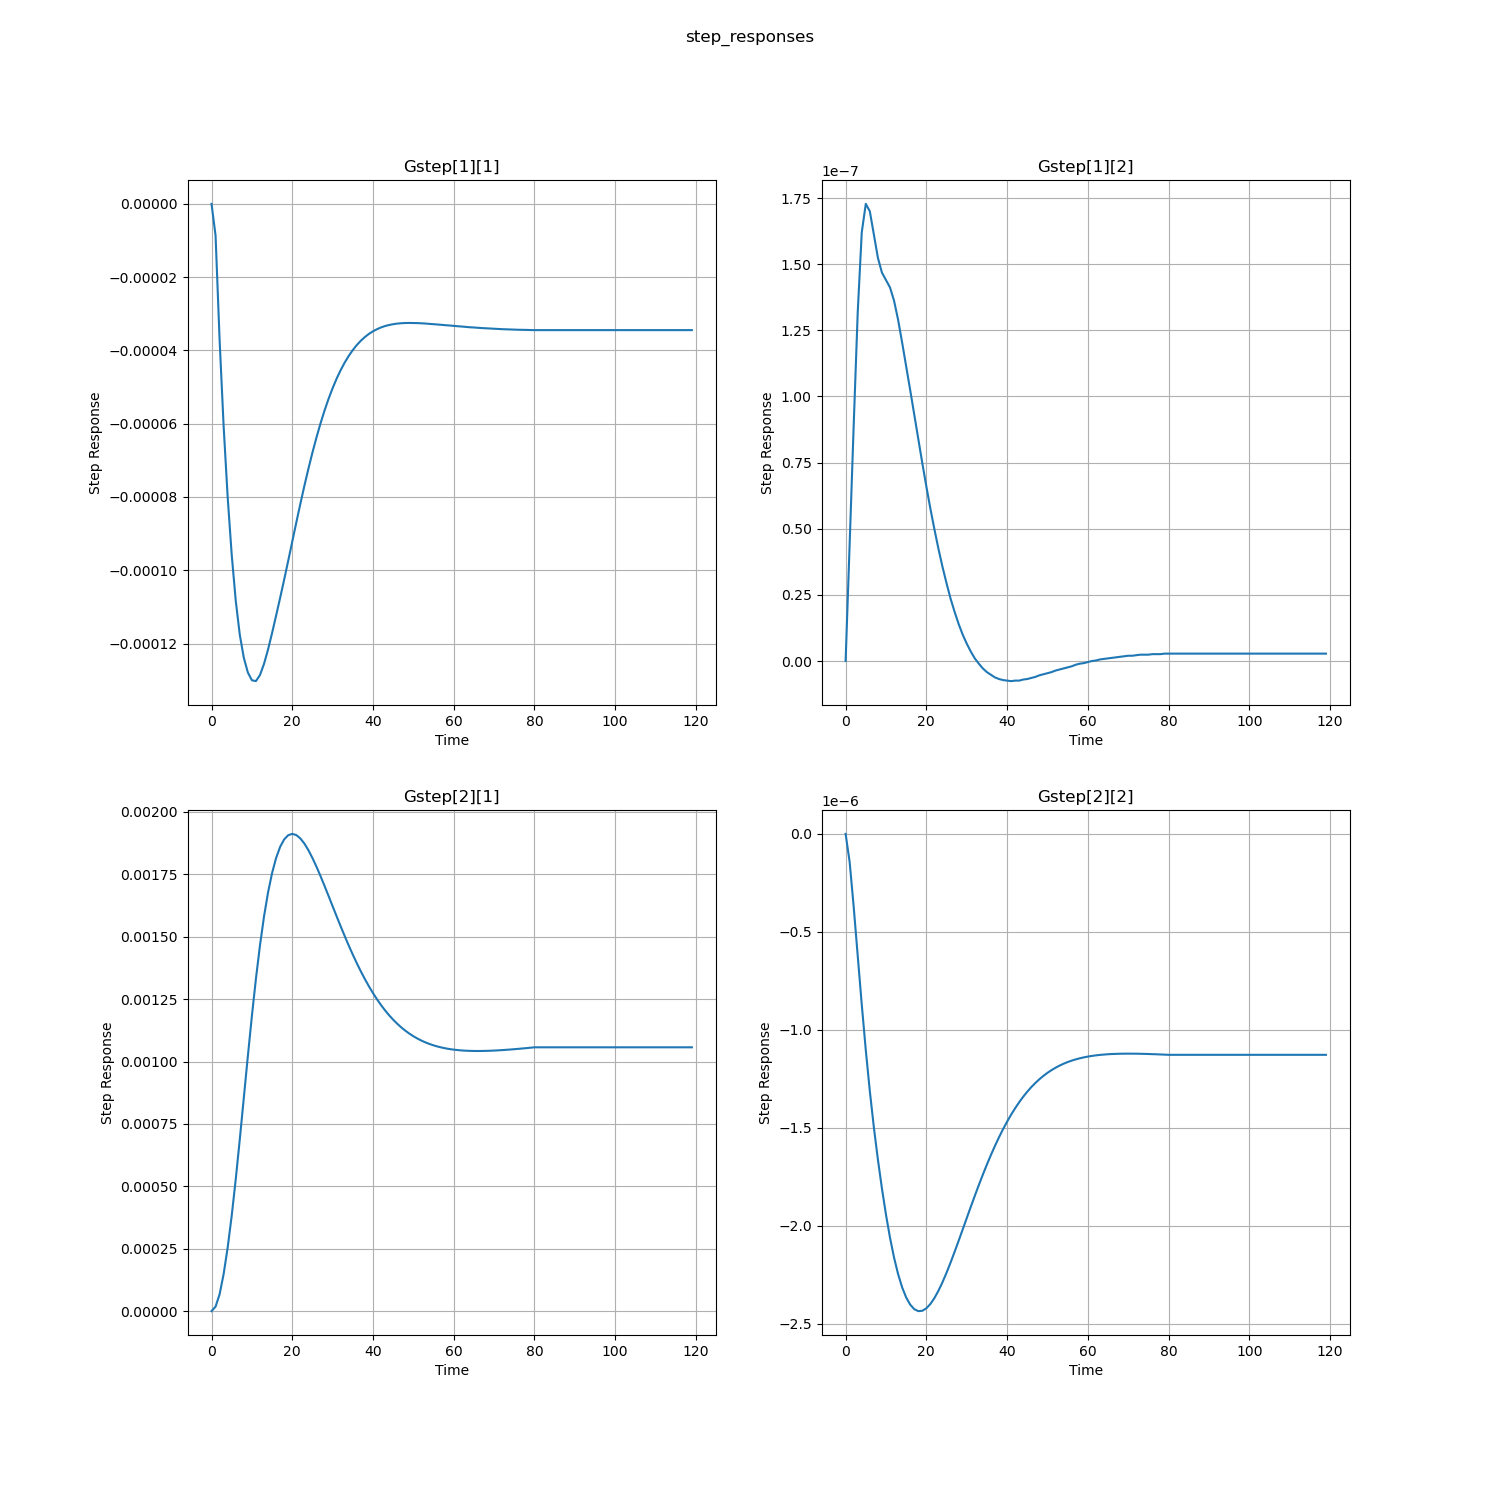
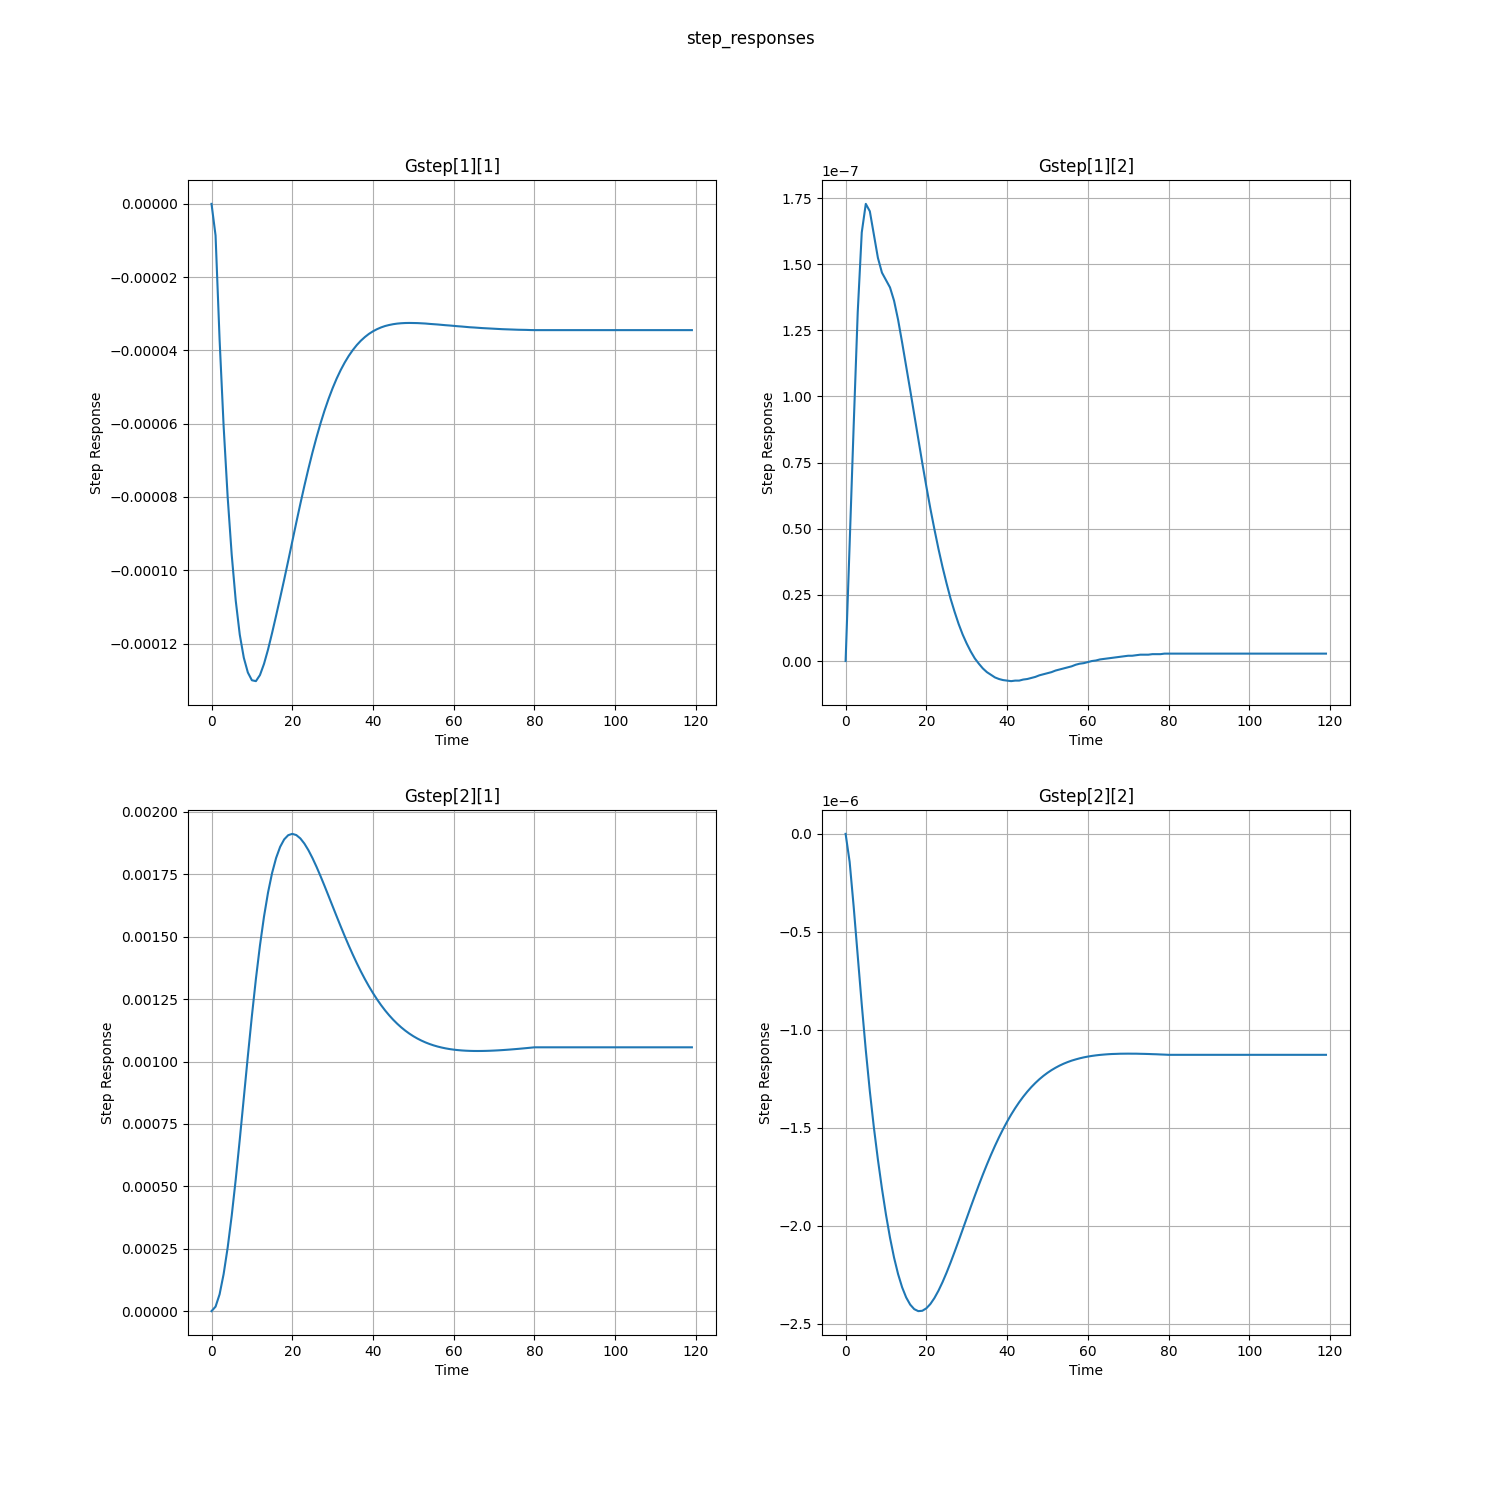
correcao leve no mpc graficos

diff --git a/src/mpc.py b/src/mpc.py
@@ -34,13 +34,13 @@ def calculate_step_responses(Gm, nsim, T, fig_name, plot_max_lenght=500):
     return Gstep
 
 def plot_step_responses(Gstep, nsim, T, fig_name):
-    tstep = np.linspace(0, nsim * T, nsim + 1)
     nrows = len(Gstep)
     ncols = len(Gstep[0])
     fig, axs = plt.subplots(nrows, ncols, figsize=(15, 15))
     fig.suptitle('step_responses')
     for j, row in enumerate(Gstep):
         for i, y_out in enumerate(row):
+            tstep = np.linspace(0, (len(y_out) - 1) * T, len(y_out))
             axs[j, i].plot(tstep, y_out)
             axs[j, i].set_title(f'Gstep[{j+1}][{i+1}]')
             axs[j, i].grid(True)
